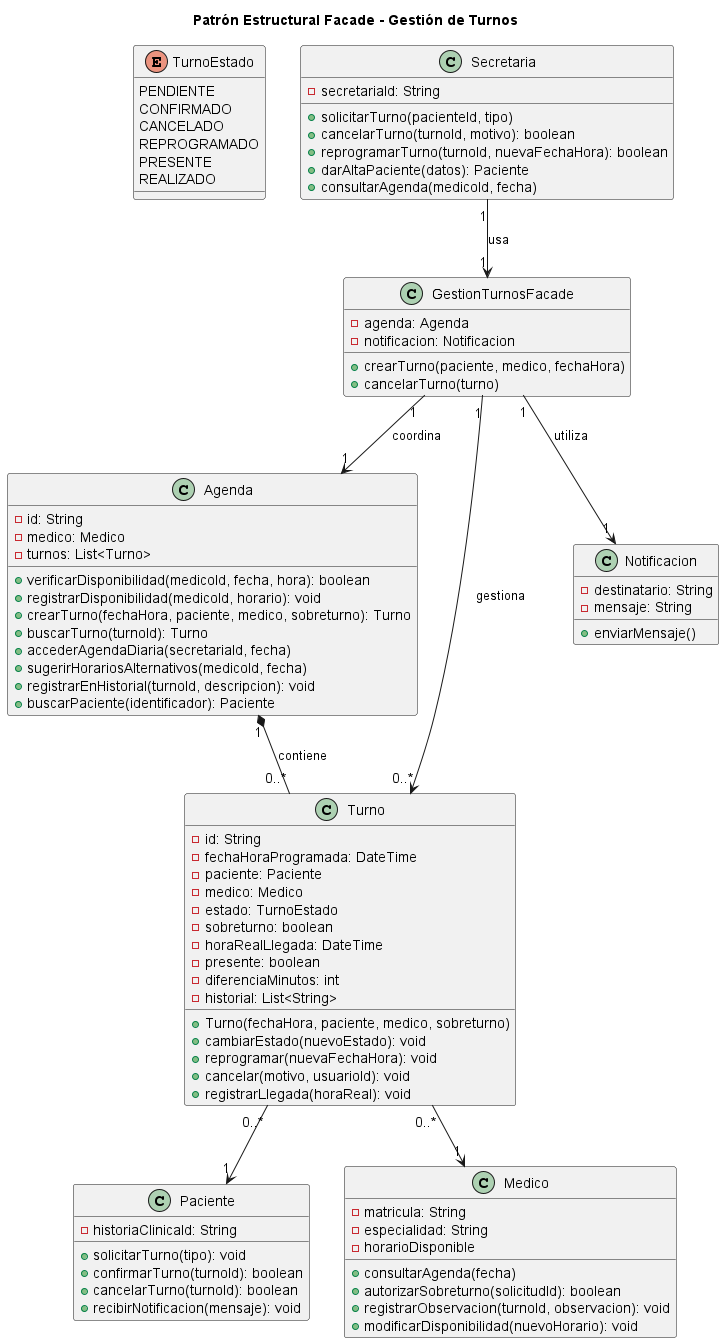
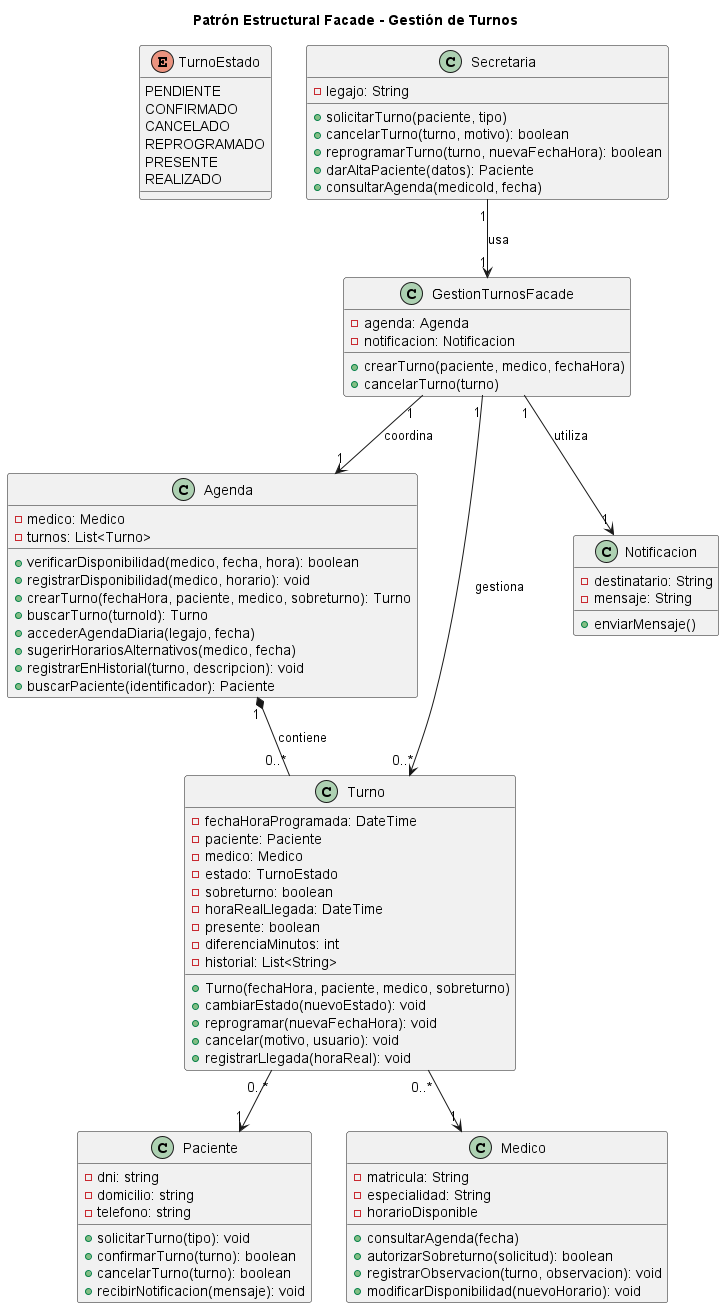
fix: se eliminaron los IDs y se corrigio el formato del archivo patron estructural md

diff --git a/anexos/patrones-diseno/patron-de-diseno-estructural.md b/anexos/patrones-diseno/patron-de-diseno-estructural.md
@@ -1,6 +1,6 @@
-# Patrón de Diseño Estructural - Facade
+# Anexo - Aplicación de Patrón de Diseño Estructural - Facade
 
-## 1. Introducción a los patrones estructurales y su relación con SOLID
+## Patrones de Diseño Estructurales y su Relación con SOLID
 
 Los patrones de diseño estructurales son soluciones reutilizables que permiten organizar las relaciones entre clases y objetos dentro de un sistema. Su objetivo principal es mejorar la flexibilidad, mantenibilidad y escalabilidad del software, simplificando la comunicación entre componentes.
 
@@ -16,15 +16,11 @@ La aplicación de patrones estructurales permite construir sistemas más organiz
 
 ---
 
-# 2. Patrón seleccionado: Facade
-
-## Propósito
+## Propósito y Tipo de Patrón
 
 El patrón **Facade** pertenece a la categoría de patrones estructurales y tiene como objetivo proporcionar una interfaz simplificada para interactuar con un conjunto complejo de clases o subsistemas.
 
 Facade oculta la complejidad interna del sistema y permite que los clientes accedan a funcionalidades mediante un único punto de entrada.
-
-## Tipo de patrón
 
 - **Categoría:** Patrón estructural.
 - **Intención:** Simplificar la interacción entre componentes complejos.
@@ -32,7 +28,7 @@ Facade oculta la complejidad interna del sistema y permite que los clientes acce
 
 ---
 
-# 3. Motivación del problema identificado
+## Motivación
 
 En el sistema de gestión de turnos médicos existen diferentes componentes involucrados en la administración de turnos.
 
@@ -50,7 +46,7 @@ Por este motivo se identifica la necesidad de crear una interfaz que simplifique
 
 ---
 
-# 4. Solución propuesta utilizando Facade
+### Solución propuesta utilizando Facade
 
 Para resolver el problema se propone implementar la clase:
 
@@ -74,7 +70,7 @@ De esta manera, las clases externas no necesitan conocer la lógica interna de c
 
 ---
 
-# 5. Estructura de clases con diagrama UML
+# 5. Estructura de Clases
 
 El diseño propuesto se representa mediante el siguiente diagrama:
 
@@ -90,7 +86,7 @@ Esta clase funciona como punto único de acceso para las operaciones relacionada
 
 ---
 
-# 6. Justificación técnica de la solución propuesta
+# 6. Justificación Técnica de la Estructura de Clases
 
 Se aplicó el patrón de diseño estructural **Facade** para simplificar la interacción con los distintos componentes del sistema involucrados en la gestión de turnos. Antes de la implementación, las clases clientes debían comunicarse directamente con varias clases del subsistema, generando un mayor acoplamiento y haciendo más compleja la lógica de utilización.
 
